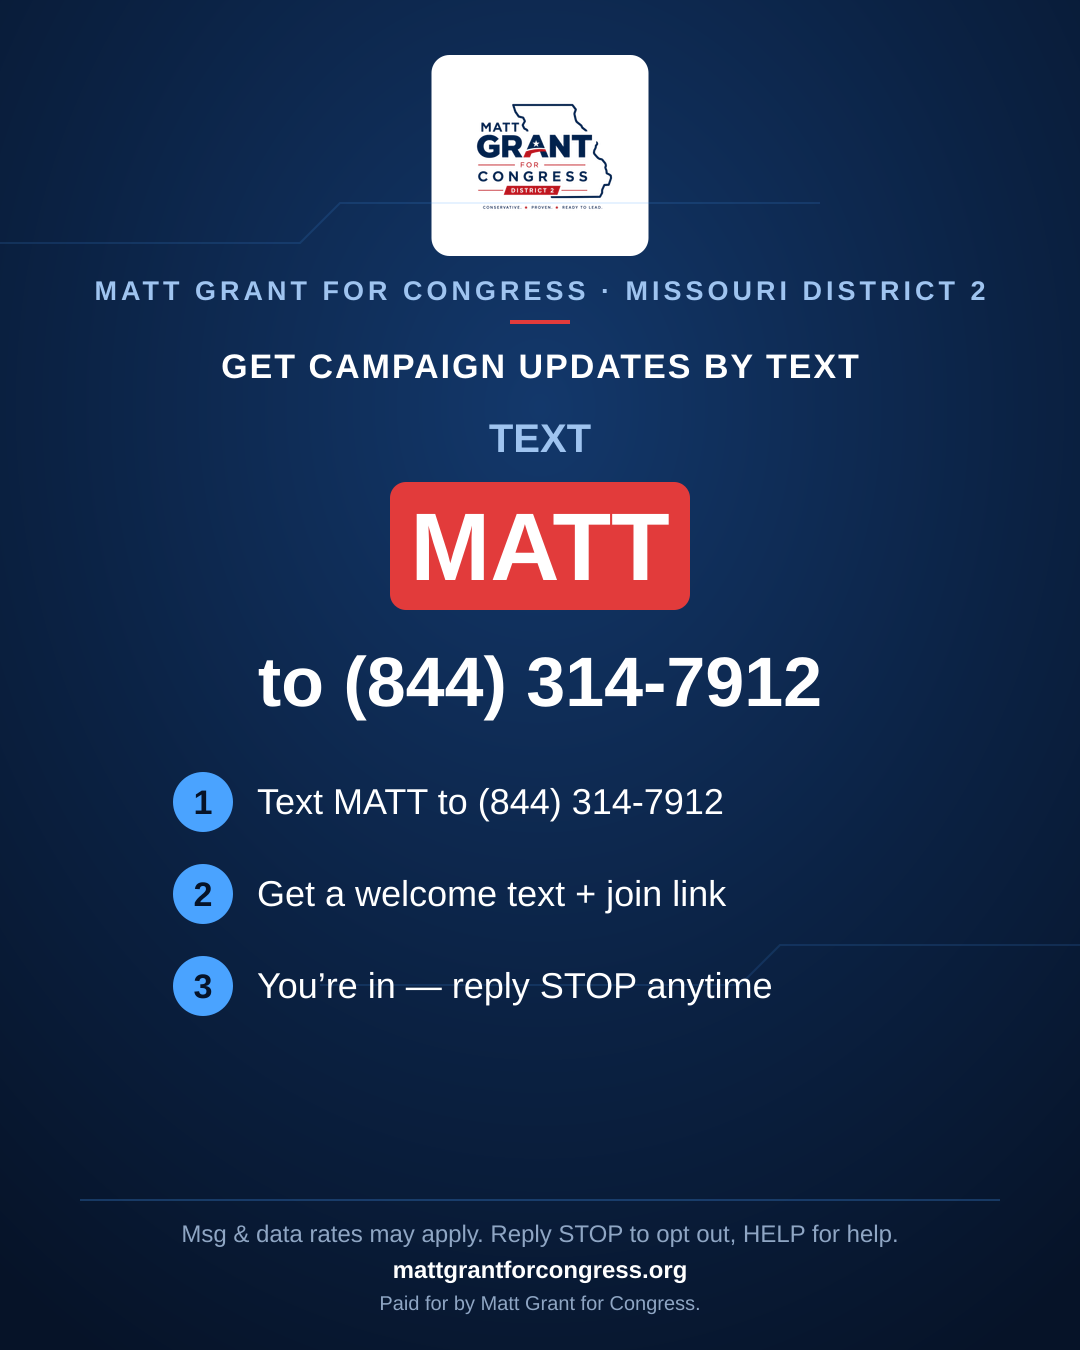
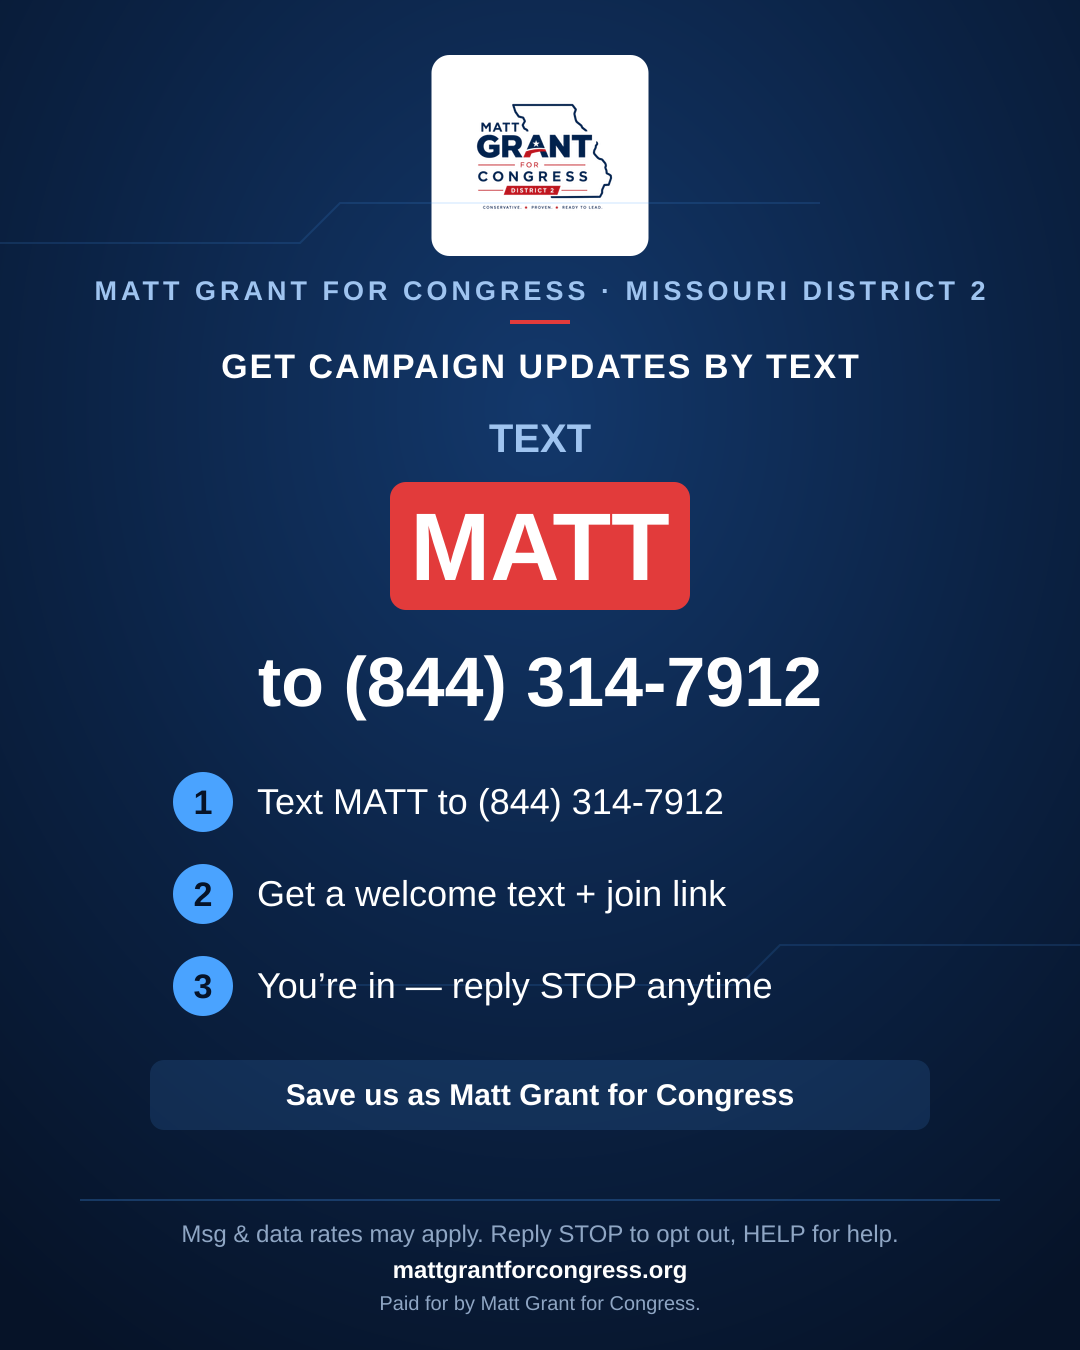
SMS: "save our number" prompt + toll-free vs 10DLC clarification (#315)
Reduce the "unknown sender / Report Spam" flag and stop future confusion
between the toll-free and A2P 10DLC programs.

- Welcome reply now asks recipients to "Save us as Matt Grant for Congress"
  (still GSM-7, still 2 segments — no added cost). Saving the number as a
  contact removes the carrier "unknown sender" banner.
- Opt-in graphic (portrait) gains a "Save us as Matt Grant for Congress"
  callout; regenerated. Square is unchanged (portrait-only, for layout room).
- docs/sms-go-live.md: add a prominent callout that the campaign sends via
  TOLL-FREE, so the A2P 10DLC trust score / T-Mobile cap / Campaign Verify /
  score appeal do NOT apply — nobody should buy Campaign Verify or appeal a
  10DLC score for the toll-free number. Toll-Free Verification is the real gate.

Claude-Session: https://claude.ai/code/session_01J8QVHF9bVAf1sbiHLyp3Th

Changed region(s): [[0.1222, 0.7778, 0.8861, 0.84]]

diff --git a/web/lib/sms/ctas.ts b/web/lib/sms/ctas.ts
@@ -93,6 +93,6 @@ export function welcomeReply(): string {
   const link = ctaLink("/sign-up", "welcome");
   return (
     `You're in! Welcome to Team ${CAMPAIGN.candidate}. Join the campaign platform: ${link}\n` +
-    `Msg & data rates may apply. ${CAMPAIGN.paidForBy} Reply STOP to opt out, HELP for help.`
+    `Save us as ${CAMPAIGN.committee}. Msg & data rates may apply. ${CAMPAIGN.paidForBy} Reply STOP to opt out, HELP for help.`
   );
 }

diff --git a/web/lib/sms/ctas.test.ts b/web/lib/sms/ctas.test.ts
@@ -53,6 +53,7 @@ describe("welcomeReply", () => {
     expect(r).toContain(`${SITE_URL}/sign-up?`);
     expect(r).toContain("utm_campaign=welcome");
     expect(r).toMatch(/Join the campaign platform/i);
+    expect(r).toMatch(/Save us as Matt Grant for Congress/i); // cut the "unknown sender" spam flag
     expect(r).toContain(CAMPAIGN.paidForBy);
     expect(r).toMatch(/Reply STOP to opt out/i);
     expect(r).toMatch(/HELP for help/i);

diff --git a/web/docs/sms-go-live.md b/web/docs/sms-go-live.md
@@ -6,6 +6,23 @@ How to take the campaign's text messaging from **staged/no-op** to **live sendin
 
 ---
 
+## ⚠ Toll-free ≠ A2P 10DLC — don't chase the 10DLC trust score
+
+The campaign sends from a **toll-free** number (**+1 844-314-7912**). Toll-free and A2P 10DLC are **two separate Twilio programs** — do not confuse them:
+
+| | **Toll-free (what we use)** | **A2P 10DLC** |
+|---|---|---|
+| Applies to | 8xx toll-free numbers | 10-digit **local** numbers |
+| Approval gate | **Toll-Free Verification** (must be **Verified**) | Brand + Campaign registration |
+| Throughput/deliverability | Set by Toll-Free Verification | Set by the TCR **Trust Score** (MPS + daily cap) |
+| Political vetting | **Not required** | **Campaign Verify** (required for 527 committees) |
+
+So the **A2P 10DLC "Trust Score" (e.g. 16/100), the T-Mobile daily-segment cap, Campaign Verify, and the score "appeal" DO NOT apply to our toll-free sends.** If you see a low 10DLC trust score in Trust Hub, it does **not** gate this number — **don't buy Campaign Verify or file a 10DLC appeal for the toll-free program.** A dormant 10DLC brand in the account is harmless; leave it.
+
+**What actually governs toll-free deliverability:** (1) **Toll-Free Verification = Verified**; (2) opted-in-only sending + clear STOP handling (enforced in code); (3) sender identification so it isn't an "unknown sender" (the first 1:1 outbound auto-prepends *"Matt Grant for Congress:"*, and the opt-in flow asks people to **save the number as a contact**); (4) a low spam-report rate. Only revisit the 10DLC path (brand/campaign/Campaign Verify) if the campaign adds a **10-digit local number**.
+
+---
+
 ## How it fails safe
 
 Every SMS path checks `smsEnabled()` first (`lib/sms/send.ts`) — true only when **all three** Twilio secrets are present (account SID, auth token, messaging service SID). With any missing:
